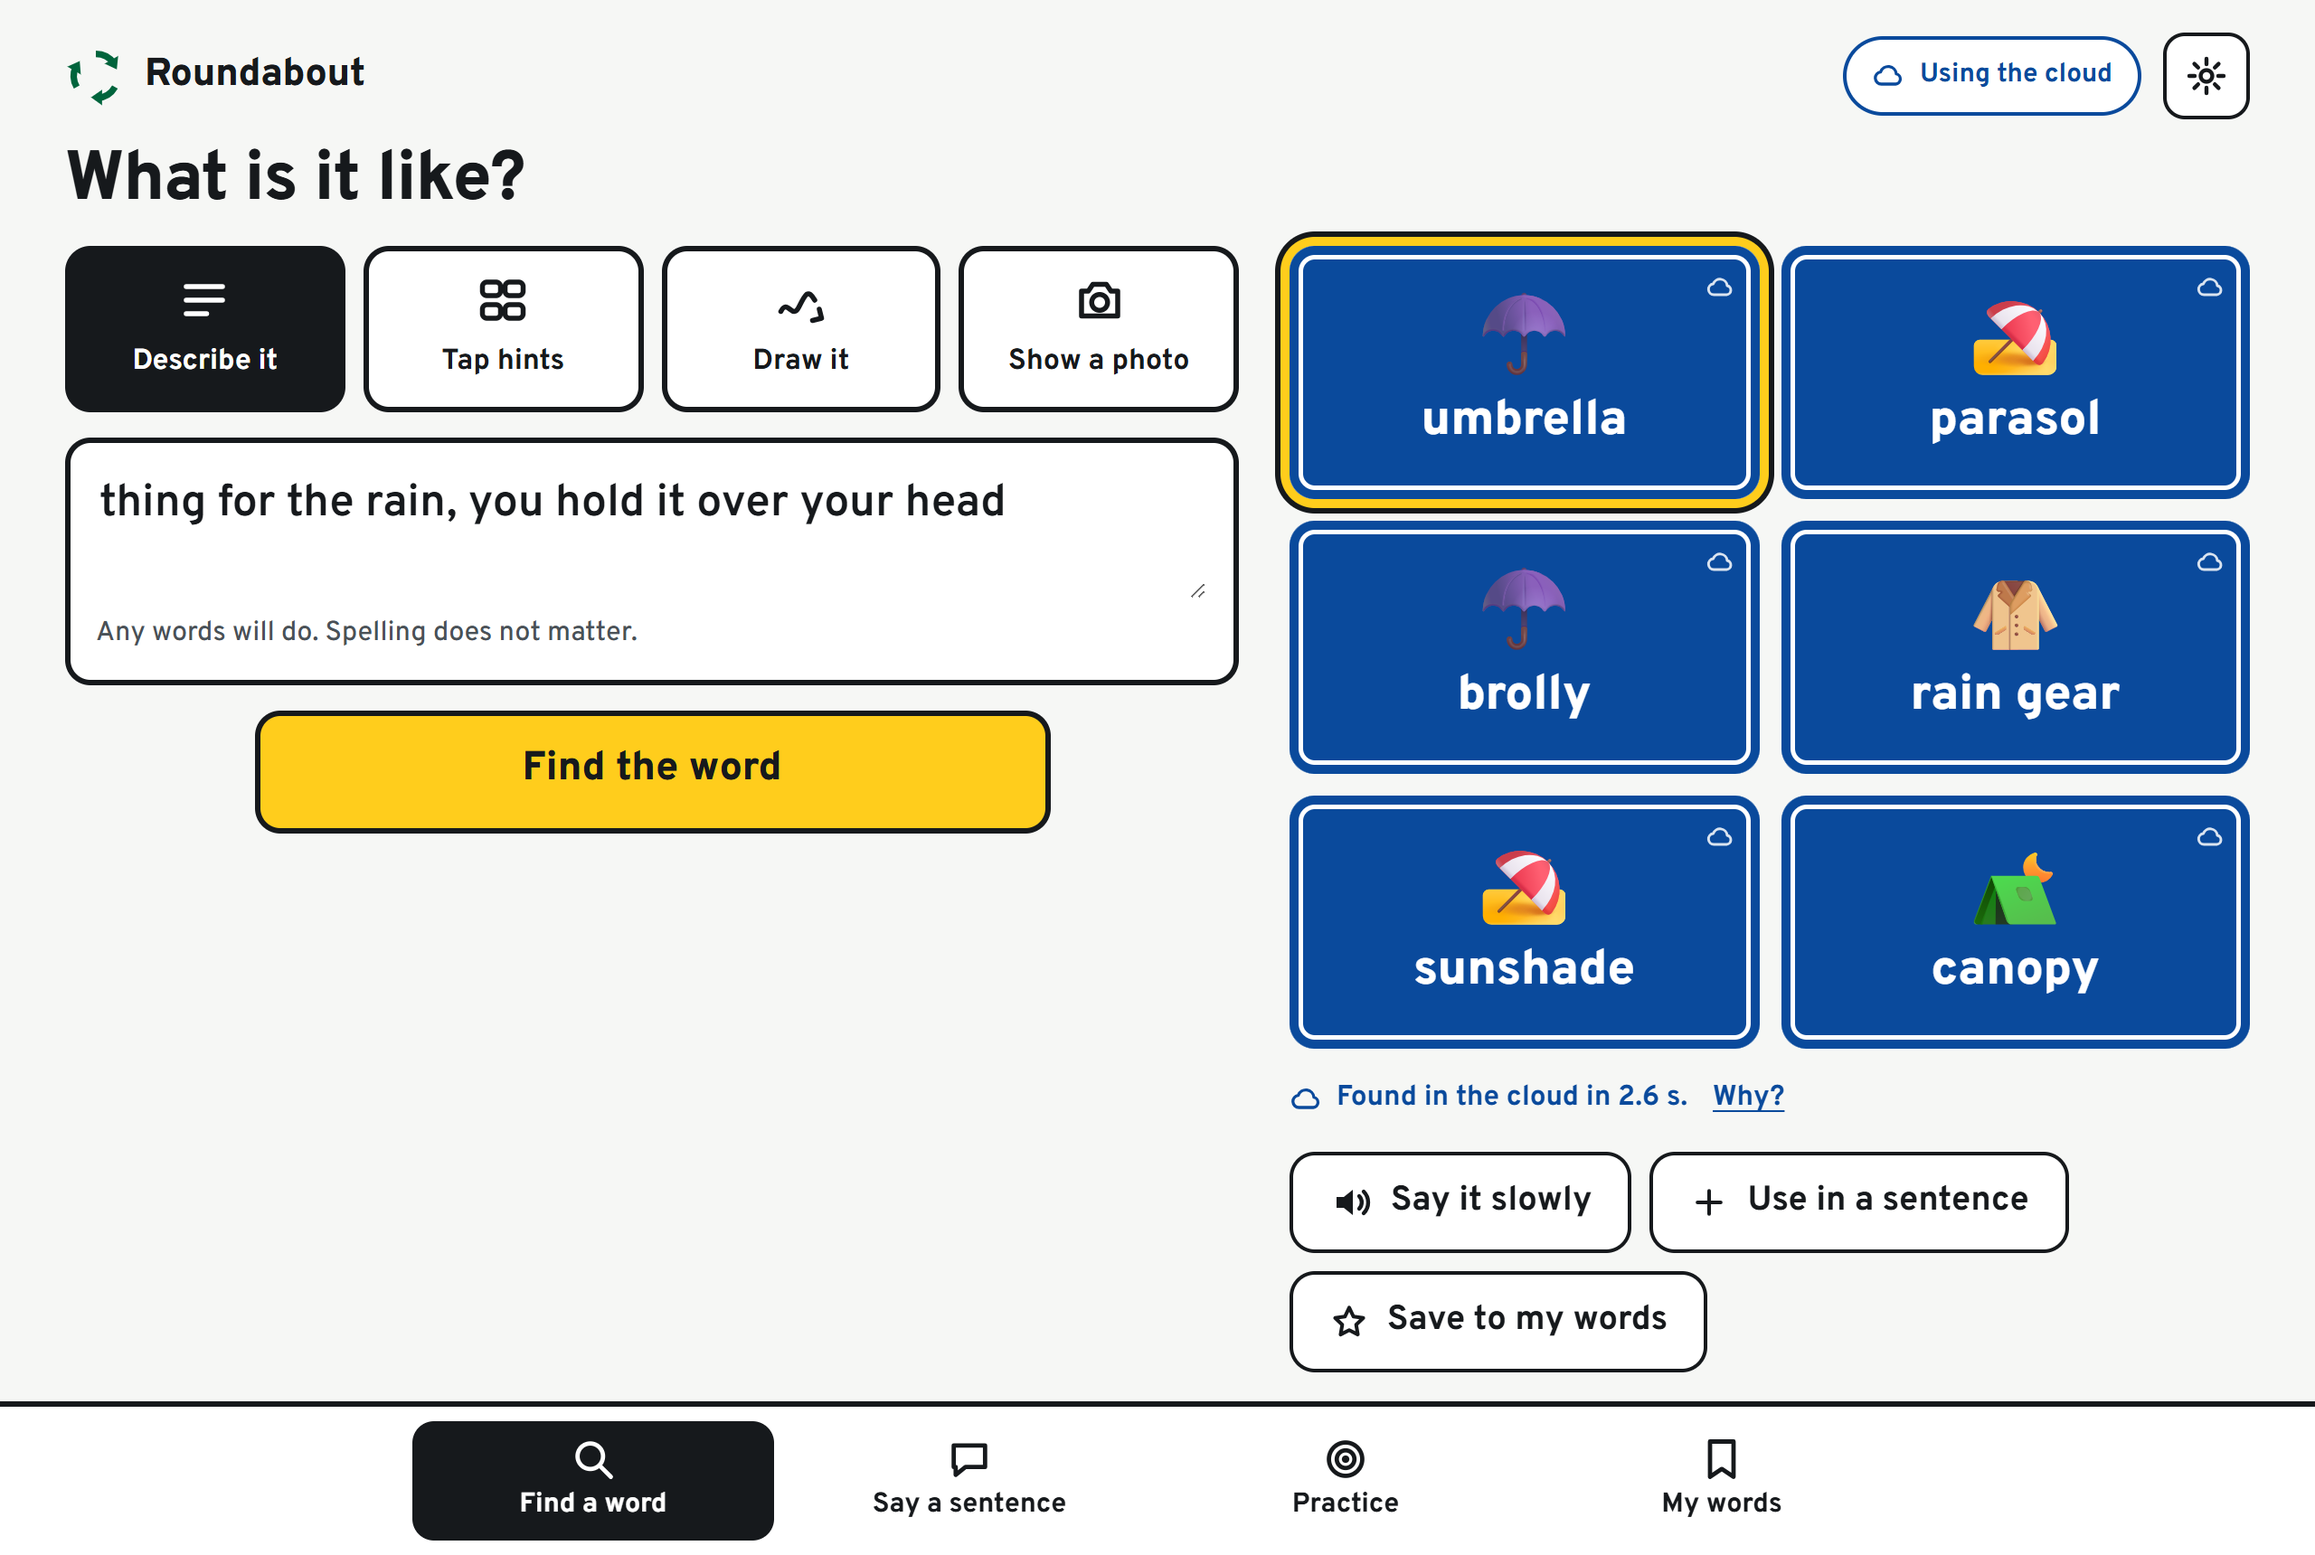
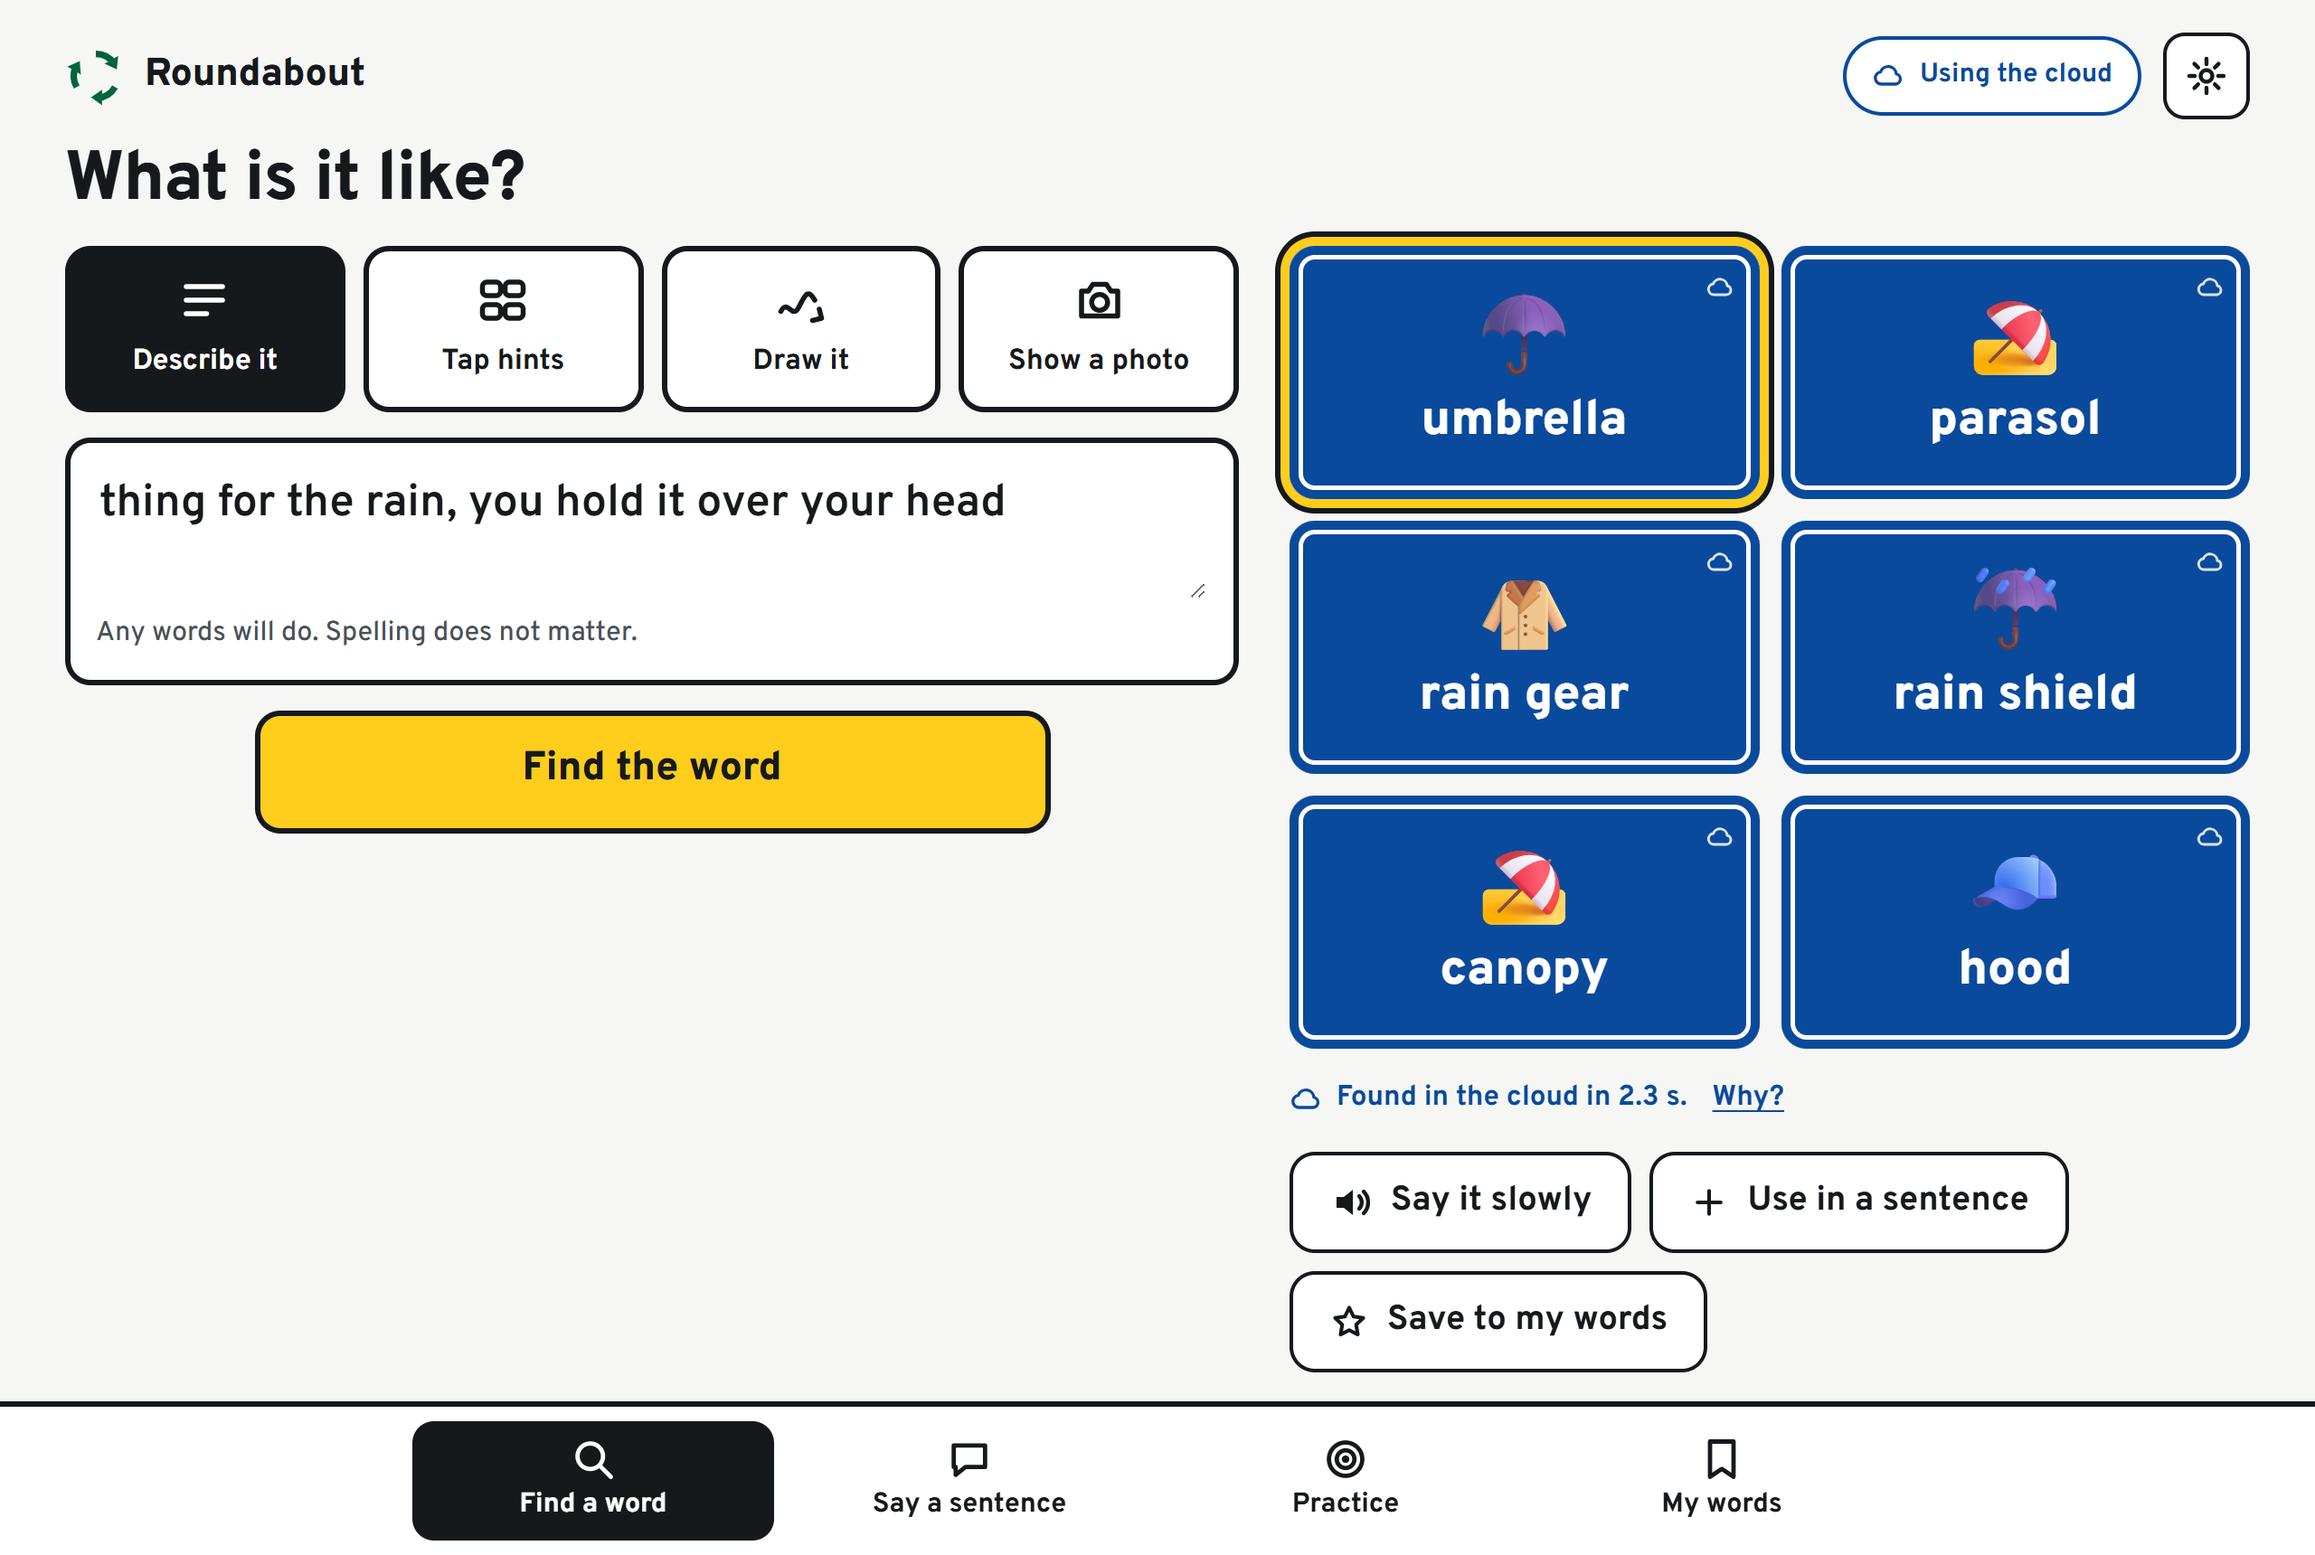
'Find the word' stays usable while a type-ahead guess is running, and that guess becomes the pressed answer; a word with no picture is shown without a placeholder; README screenshots retaken

diff --git a/web/src/ui/Find.tsx b/web/src/ui/Find.tsx
@@ -42,6 +42,10 @@ export function Find({ saved, situation, strip, onUse, onSave, onWhy, onGoSay }:
   const [photo, setPhoto] = useState<string | null>(null);
   const [answer, setAnswer] = useState<Answer | null>(null);
   const [busy, setBusy] = useState<'find' | 'more' | null>(null);
+  // A type-ahead guess is on its way and "Find the word" has not been pressed for it. The button
+  // stays usable meanwhile: pressing it must never do nothing.
+  const [guessing, setGuessing] = useState(false);
+  const liveRun = useRef<{ clues: string; id: number } | null>(null);
   const [partial, setPartial] = useState(false); // words are still arriving
   const [cloudPart, setCloudPart] = useState<CloudPart>(null); // what the cloud did for an answer this device gave
   const [note, setNote] = useState<string | null>(null);
@@ -63,6 +67,7 @@ export function Find({ saved, situation, strip, onUse, onSave, onWhy, onGoSay }:
 
   async function run(live: boolean) {
     if (!hasInput) return;
+    const hard = way === 'hints' && isCloudFirstGroup(group);
     if (live && !picture) {
       // "Find the word" was pressed for exactly these clues: a type-ahead guess that fires a
       // moment later must not replace that answer (it would also skip the cloud's help).
@@ -70,9 +75,15 @@ export function Find({ saved, situation, strip, onUse, onSave, onWhy, onGoSay }:
       asked.current = null;
     } else if (!live) {
       asked.current = picture ? null : clues;
+      // Pressed while a type-ahead guess for these very clues is on its way: the same model is
+      // not asked the same thing twice. That answer counts as the pressed one when it arrives,
+      // so it gets its pictures and, for a short clue, the cloud's help.
+      if (!picture && !hard && liveRun.current?.clues === clues && liveRun.current.id === seq.current) { setGuessing(false); return; }
     }
     const id = ++seq.current;
     const stale = () => id !== seq.current;
+    liveRun.current = live && !picture ? { clues, id } : null;
+    setGuessing(live);
     setBusy('find');
     setNote(null);
     setCloudPart(null);
@@ -82,7 +93,7 @@ export function Find({ saved, situation, strip, onUse, onSave, onWhy, onGoSay }:
     try {
       const opts = {
         saved: savedRef.current, situation: sit.current, live, stale,
-        hard: way === 'hints' && isCloudFirstGroup(group),
+        hard,
         // Tiles appear one by one as the words stream in.
         onPartial: (guesses: Guess[], side: Answer['side']) => {
           if (stale() || !guesses.length) return;
@@ -98,13 +109,20 @@ export function Find({ saved, situation, strip, onUse, onSave, onWhy, onGoSay }:
         ? await nameImage({ data: picture, mimeType: way === 'draw' ? 'image/png' : 'image/jpeg', kind: way === 'draw' ? 'sketch' : 'photo' }, opts)
         : await findWord(clues, opts));
       if (stale()) return;
-      if (live && a.blocked) return; // live guesses are a bonus; say nothing when they cannot run
+      // True for a pressed answer, and for a type-ahead guess that was pressed while on its way.
+      const pressed = !live || (!picture && asked.current === clues);
+      if (live && a.blocked) {
+        // Live guesses are a bonus: say nothing when they cannot run. If the button was pressed
+        // meanwhile, look the word up the ordinary way.
+        if (pressed) { liveRun.current = null; void run(false); }
+        return;
+      }
       setPartial(false);
       setAnswer(a);
       shown.current = !picture && a.side === 'device' && a.guesses.length && !a.later ? { clues, answer: a } : null;
       // Words the picture table does not know get a picture from one short follow-up request.
       const pictures = (gs: Guess[]) => {
-        if (live || !gs.some((g) => !g.emoji)) return;
+        if (!pressed || !gs.some((g) => !g.emoji)) return;
         fillPictures(gs, sit.current).then((filled) => { if (!stale()) setAnswer((cur) => (cur ? { ...cur, guesses: cur.guesses.map((g) => (g.emoji ? g : filled.find((x) => x.word === g.word) ?? g)) } : cur)); });
       };
       // The cloud's words join the tiles already on screen (which may have gained pictures meanwhile).
@@ -133,7 +151,7 @@ export function Find({ saved, situation, strip, onUse, onSave, onWhy, onGoSay }:
         return;
       }
       // A short clue answered on the device: the cloud adds its ideas without being asked.
-      if (!live && !picture && a.side === 'device' && a.canAskCloud && isShort(clues)) {
+      if (pressed && !picture && a.side === 'device' && a.canAskCloud && isShort(clues)) {
         setBusy('more');
         setCloudPart('asking');
         moreFromCloud(clues, a.guesses, { saved: savedRef.current, situation: sit.current })
@@ -148,10 +166,11 @@ export function Find({ saved, situation, strip, onUse, onSave, onWhy, onGoSay }:
       }
     } catch (e) {
       if (e instanceof StaleError || stale()) return;
-      if (!live) setNote(friendly(e));
+      if (!live || (!picture && asked.current === clues)) setNote(friendly(e));
     } finally {
       clearTimeout(slowTimer);
-      if (!stale()) { setBusy((cur) => (cur === 'find' ? null : cur)); setPartial(false); setWaiting(false); }
+      if (liveRun.current?.id === id) liveRun.current = null;
+      if (!stale()) { setBusy((cur) => (cur === 'find' ? null : cur)); setPartial(false); setWaiting(false); setGuessing(false); }
     }
   }
 
@@ -277,7 +296,7 @@ export function Find({ saved, situation, strip, onUse, onSave, onWhy, onGoSay }:
       )}
 
       <div class="go-row">
-        <button class="btn btn-go" disabled={!hasInput || busy === 'find'} onClick={() => run(false)}>
+        <button class="btn btn-go" disabled={!hasInput || (busy === 'find' && !guessing)} onClick={() => run(false)}>
           {busy === 'find' ? <Ring size={26} spin /> : null}
           <span>{busy === 'find' ? 'Looking…' : 'Find the word'}</span>
         </button>

diff --git a/web/src/ui/Tiles.tsx b/web/src/ui/Tiles.tsx
@@ -11,7 +11,7 @@ export function Tiles({ guesses, chosen, onChoose }: { guesses: Guess[]; chosen:
       {guesses.map((g, i) => (
         <li key={`${g.word}-${g.source}`} style={{ '--i': i } as never}>
           <button class={`sign sign-${g.source} ${chosen === g.word ? 'sign-chosen' : ''}`} onClick={() => onChoose(g)} aria-pressed={chosen === g.word} aria-label={`${g.word}, ${SOURCE_LABEL[g.source]}. Tap to hear it.`}>
-            <span class="sign-pic" aria-hidden="true">{g.emoji || '·'}</span>
+            <span class="sign-pic" aria-hidden="true">{g.emoji}</span>
             <span class="sign-word">{g.word}</span>
             <span class="sign-src" aria-hidden="true">{g.source === 'device' ? <IconDevice size={16} /> : g.source === 'cloud' ? <IconCloud size={16} /> : <IconStar size={16} />}</span>
           </button>

diff --git a/web/src/ui/styles.css b/web/src/ui/styles.css
@@ -94,6 +94,9 @@ h1 { font-size: clamp(1.8rem, 5vw, 2.4rem); font-weight: 800; letter-spacing: -0
 .sign-cloud { --bg: var(--blue); }
 .sign-saved { --bg: var(--brown); }
 .sign-pic { font-size: 2.9rem; line-height: 1.1; }
+/* A word the picture table does not know is shown without a picture, not with a wrong one. */
+.sign-pic:empty { display: none; }
+.sign-pic:empty + .sign-word { font-size: 1.95rem; }
 .sign-word { font-size: 1.7rem; font-weight: 800; line-height: 1.1; overflow-wrap: anywhere; }
 .sign-src { position: absolute; top: 13px; right: 14px; opacity: .85; }
 .sign-chosen { box-shadow: inset 0 0 0 5px var(--bg), inset 0 0 0 7.5px var(--white), 0 0 0 5px var(--yellow), 0 0 0 8px var(--ink); }
